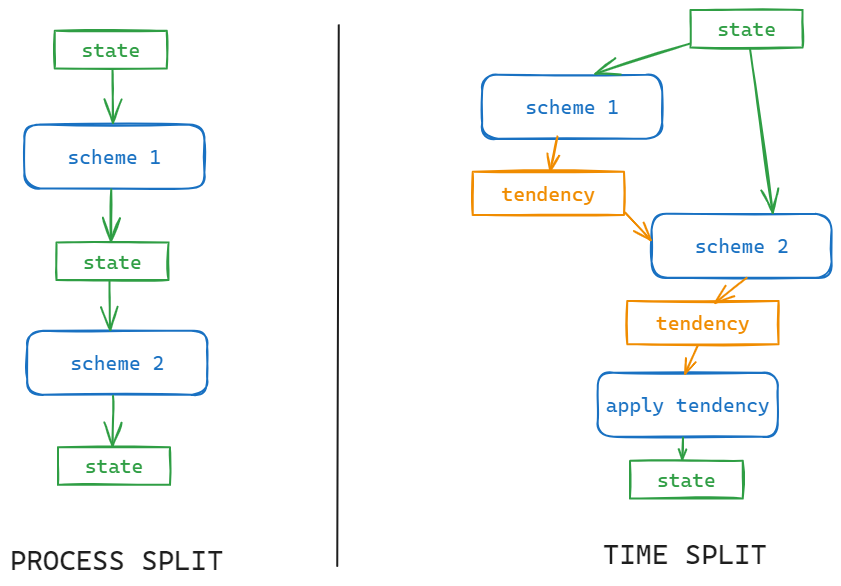
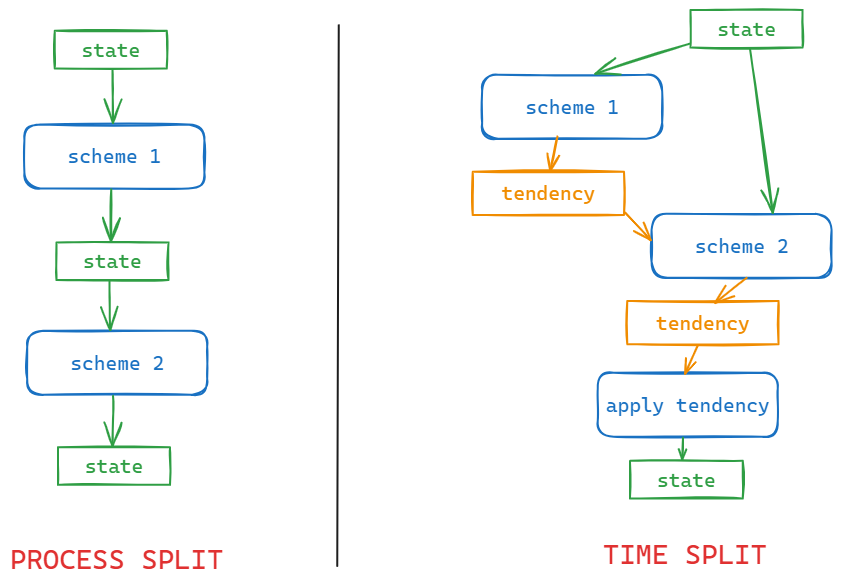
add note about standard names and update process split image for dark mode

diff --git a/docs/conversion/step3.md b/docs/conversion/step3.md
@@ -29,6 +29,8 @@ Replace all `enter_*` sections with appropriate information (standard_name, unit
         - If you need to create your own standard name, the current proposal for creating standard names can be found here: https://github.com/ESCOMP/CCPPStandardNames/blob/main/StandardNamesRules.rst 
         - May need to consult with WRF / MPAS scientists and other SIMA groups to coordinate StandardName usage.
         - Keep a list of StandardNames that you introduce and give them to a CAM SE for incorporation into an upcoming CCPPStandardNames PR
+!!! Warning "Updated standard names"
+    If, in the course of your implementation or during code review to the CCPPStandardNames repository, the standard name changes, please update the name in the spreadsheet to reflect the change!
 
 
 - *units*: the units can be found in the standard names spreadsheet as well (`Snapshot Units` column)
